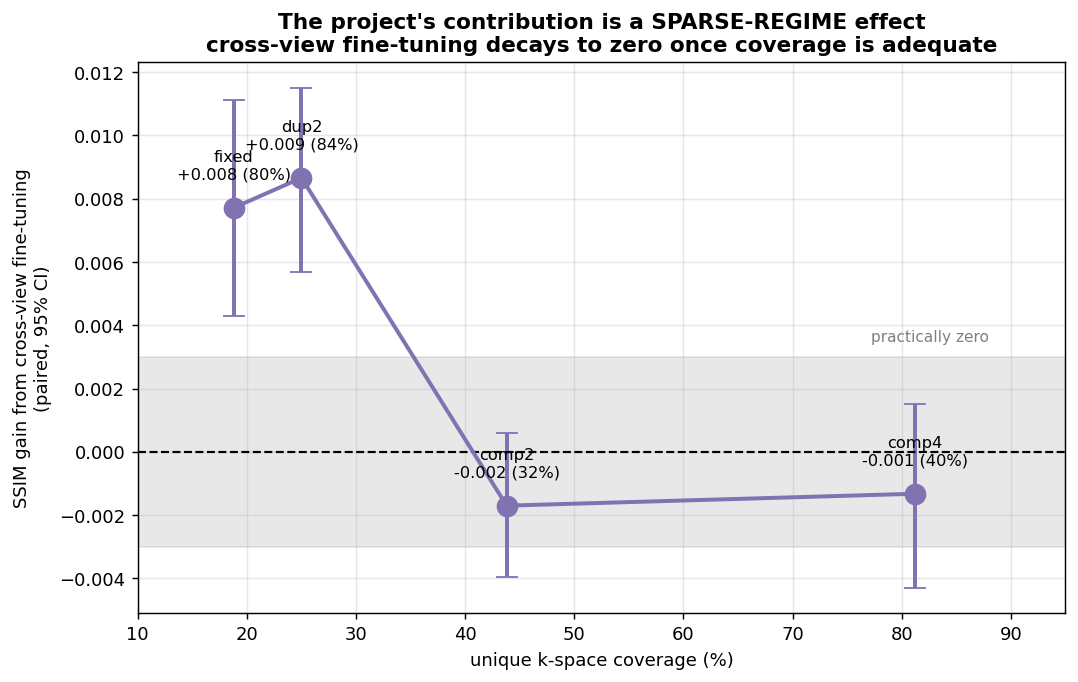
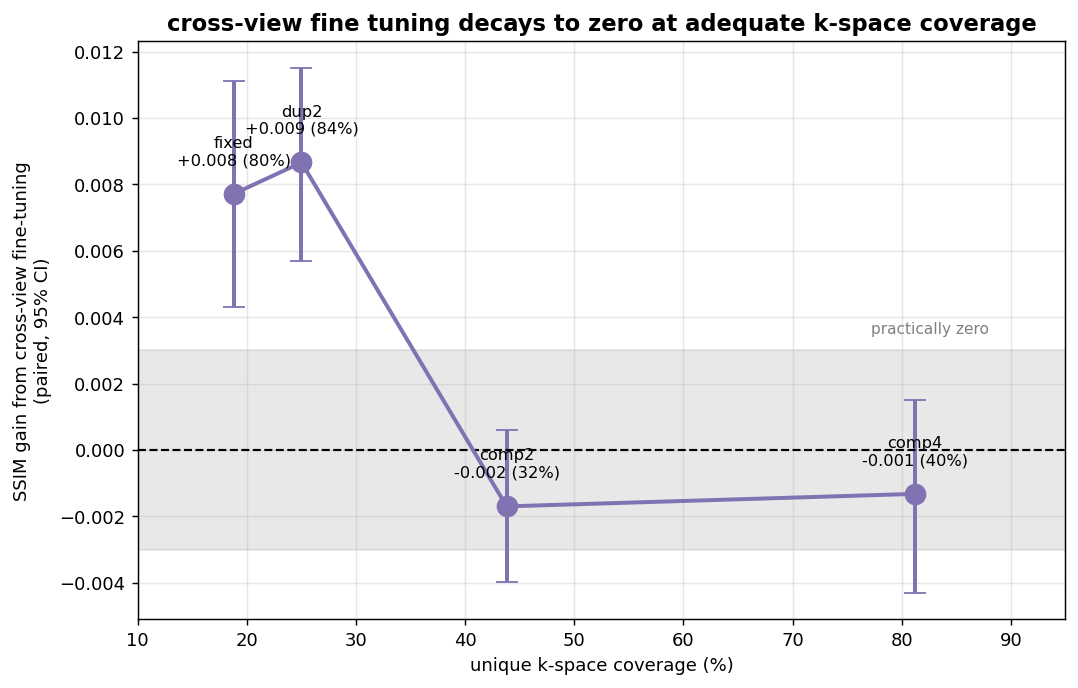
Figure edits: retitle forest + finetuning, drop experiment_overview, fix montage title collision
1. finetuning_vs_coverage.png -- title replaced with
   "cross-view fine tuning decays to zero at adequate k-space coverage".
2. effect_sizes_forest.png -- title replaced with
   "Acquisition vs Reconstruction contributions to SSIM".
3. experiment_overview.png removed, along with fig_overview() in
   analysis/plot_experiment_overview.py and its now-unused MARKERS constant and
   patheffects import. References dropped from build_mvp_report and README.
4. recon_montage_{2view,4view}.png -- block headings ("Table 1 ...") now render in
   their OWN gridspec row via a new block_title() helper, so they can no longer
   collide with the per-column image titles underneath.

diff --git a/analysis/plot_experiment_overview.py b/analysis/plot_experiment_overview.py
@@ -6,7 +6,6 @@ per-method montages.  Everything is computed from the per-subject metric tables
 so the plots and the report cannot disagree.
 
 Outputs (figures/mvp/):
-  experiment_overview.png     SSIM vs unique k-space coverage, all 20 methods
   effect_sizes_forest.png     paired effects, acquisition design vs recon method
   budget_ladder.png           SSIM vs lines bought, duplicated vs complementary
   finetuning_vs_coverage.png  cross-view fine-tuning benefit decaying with coverage
@@ -21,12 +20,10 @@ import pandas as pd
 import matplotlib
 matplotlib.use("Agg")
 import matplotlib.pyplot as plt
-import matplotlib.patheffects as pe
 
 sys.path.insert(0, os.path.dirname(os.path.dirname(os.path.abspath(__file__))))
 from analysis.experiments import EXPERIMENTS, DESIGN_COLORS, design_of, methods_for
 
-MARKERS = {"single": "o", "merge": "s", "ft": "^", "plain": "D"}
 DESIGN_LABEL = {
     "fixed": "fixed budget (split one scan)",
     "1x": "one cheap scan",
@@ -55,78 +52,6 @@ def subj_mean(df, m, col="ssim"):
     v = df[df.method == m][col]
     return float(v.mean()) if len(v) else None
 
-
-# ---------------------------------------------------------------------------
-# 1. SSIM vs coverage -- the headline figure
-# ---------------------------------------------------------------------------
-def fig_overview(main, quad, out):
-    fig, axes = plt.subplots(1, 2, figsize=(15, 6.2), sharey=False)
-    for ax, (df, set_, title, n, jit) in zip(axes, [
-            (main, "main", "2-view set", main.subject_id.nunique(), 0.85),
-            (quad, "quad", "4-view set", quad.subject_id.nunique(), 2.2)]):
-        # Methods sharing a coverage differ by <0.006 SSIM, so points (and their
-        # labels) would overlap. Spread each coverage cluster horizontally.
-        present = [m for m in methods_for(set_) if not df[df.method == m].empty]
-        clusters = {}
-        for m in present:
-            clusters.setdefault(EXPERIMENTS[m].cov, []).append(m)
-        for cov, ms in clusters.items():
-            ms.sort(key=lambda m: subj_mean(df, m))
-            for i, m in enumerate(ms):
-                e = EXPERIMENTS[m]
-                x = cov * 100 + (i - (len(ms) - 1) / 2) * jit
-                y = subj_mean(df, m)
-                c = DESIGN_COLORS[design_of(m)]
-                ax.scatter(x, y, s=190, color=c, marker=MARKERS[e.combiner],
-                           edgecolor="black" if e.prior == "finetuned" else "white",
-                           linewidth=2.0 if e.prior == "finetuned" else 1.0, zorder=3)
-                # stagger labels above/below: cluster members differ by <0.006 SSIM
-                # so a single offset would overlap regardless of jitter. Colour the
-                # text to match its marker so close pairs stay unambiguous.
-                dy = 13 if i % 2 == 0 else -23
-                ax.annotate(m, (x, y), textcoords="offset points", xytext=(0, dy),
-                            ha="center", fontsize=8.5, fontweight="bold", color=c,
-                            zorder=4, path_effects=[pe.withStroke(linewidth=2.2,
-                                                                  foreground="white")])
-        ax.set_xlabel("unique k-space coverage (% of PE columns)")
-        ax.set_ylabel("brain-masked SSIM (subject mean)")
-        ax.set_title(f"{title}  ({n} subjects)")
-        ax.grid(alpha=0.3)
-
-    # annotate the two big design jumps
-    a = axes[0]
-    y6, y13 = subj_mean(main, "dup2_ft"), subj_mean(main, "comp2_ft")
-    if y6 and y13:
-        a.annotate("", xy=(43.8, y13), xytext=(25, y6),
-                   arrowprops=dict(arrowstyle="->", lw=2.4, color="#2a7f3f"))
-        a.text(34, (y6 + y13) / 2 + 0.008, f"same 128 lines\n+{y13-y6:.3f} SSIM",
-               color="#2a7f3f", fontsize=10, fontweight="bold", ha="center")
-    b = axes[1]
-    y9, y16, yMF = subj_mean(quad, "dup4_ft"), subj_mean(quad, "comp4_ft"), subj_mean(quad, "full_plain")
-    if y9 and y16:
-        b.annotate("", xy=(81.2, y16), xytext=(25, y9),
-                   arrowprops=dict(arrowstyle="->", lw=2.4, color="#2a7f3f"))
-        b.text(53, (y9 + y16) / 2 + 0.008, f"same 256 lines\n+{y16-y9:.3f} SSIM",
-               color="#2a7f3f", fontsize=10, fontweight="bold", ha="center")
-    if yMF:
-        b.axhline(yMF, ls="--", color="#c44e52", lw=1.5, alpha=0.8)
-        b.text(24, yMF - 0.007, "ceiling: one full scan, plain recon (full_plain)",
-               color="#c44e52", fontsize=9, va="top")
-
-    handles = [plt.Line2D([], [], marker="o", ls="", color=DESIGN_COLORS[k], ms=11,
-                          label=DESIGN_LABEL[k]) for k in ["1x", "fixed", "dup", "comp", "fcomp", "full", "dualfull"]]
-    handles += [plt.Line2D([], [], marker=MARKERS[k], ls="", color="gray", ms=11,
-                           label=f"{k}") for k in ["single", "merge", "ft", "plain"]]
-    handles += [plt.Line2D([], [], marker="o", ls="", mfc="white", mec="black", mew=2, ms=11,
-                           label="cross-view fine-tuned")]
-    fig.legend(handles=handles, loc="lower center", ncol=5, frameon=False, fontsize=9)
-    fig.suptitle("Coverage, not method, drives reconstruction quality\n"
-                 "colour = acquisition design | marker = combiner | black ring = fine-tuned prior",
-                 fontsize=13, fontweight="bold")
-    fig.tight_layout(rect=[0, 0.10, 1, 0.93])
-    fig.savefig(out, dpi=130, bbox_inches="tight")
-    plt.close(fig)
-    print(f"Wrote {out}")
 
 
 # ---------------------------------------------------------------------------
@@ -168,9 +93,8 @@ def fig_forest(main, quad, out):
             color="#2a7f3f", fontweight="bold", fontsize=10.5)
     ax.text(0.985, 0.40, "RECONSTRUCTION METHOD", transform=ax.transAxes, ha="right",
             color="#8172b2", fontweight="bold", fontsize=10.5)
-    ax.set_title("What actually moves the needle\n"
-                 "design effects are 5-10x larger than every method effect",
-                 fontsize=12.5, fontweight="bold")
+    ax.set_title("Acquisition vs Reconstruction contributions to SSIM",
+                 fontsize=13, fontweight="bold")
     ax.grid(axis="x", alpha=0.3)
     fig.tight_layout()
     fig.savefig(out, dpi=130, bbox_inches="tight")
@@ -263,9 +187,8 @@ def fig_ft(main, quad, out):
     ax.set_xlim(10, 95)
     ax.set_xlabel("unique k-space coverage (%)")
     ax.set_ylabel("SSIM gain from cross-view fine-tuning\n(paired, 95% CI)")
-    ax.set_title("The project's contribution is a SPARSE-REGIME effect\n"
-                 "cross-view fine-tuning decays to zero once coverage is adequate",
-                 fontsize=12, fontweight="bold")
+    ax.set_title("cross-view fine tuning decays to zero at adequate k-space coverage",
+                 fontsize=12.5, fontweight="bold")
     ax.grid(alpha=0.3)
     fig.tight_layout()
     fig.savefig(out, dpi=130, bbox_inches="tight")
@@ -283,7 +206,6 @@ def main():
     m = pd.read_csv(args.per_subject)
     q = pd.read_csv(args.per_subject_quad)
     o = args.output_dir
-    fig_overview(m, q, os.path.join(o, "experiment_overview.png"))
     fig_forest(m, q, os.path.join(o, "effect_sizes_forest.png"))
     fig_budget(m, q, os.path.join(o, "budget_ladder.png"))
     fig_ft(m, q, os.path.join(o, "finetuning_vs_coverage.png"))

diff --git a/analysis/plot_recon_montage_tables.py b/analysis/plot_recon_montage_tables.py
@@ -63,13 +63,17 @@ def pick_cases(res, methods, n=3):
     return [(k, good[k]) for k in chosen]
 
 
-def draw_block(fig, cell, res, methods, cases, zf_cond, title):
+def block_title(fig, cell, text):
+    """Render a block heading in its OWN gridspec row, so it can never collide
+    with the per-column titles of the montage below it."""
+    ax = fig.add_subplot(cell)
+    ax.axis("off")
+    ax.text(0.0, 0.15, text, transform=ax.transAxes, fontsize=11.5,
+            fontweight="bold", ha="left", va="bottom")
+
+
+def draw_block(fig, cell, res, methods, cases, zf_cond):
     ncol = 2 + len(methods)                  # reference + zero-filled + methods
-    # heading axis first (transparent, behind the images), carries the block title
-    # placed well above the two-line column titles of the first row.
-    ax0 = fig.add_subplot(cell); ax0.axis("off"); ax0.patch.set_alpha(0.0)
-    ax0.text(0.0, 1.055, title, transform=ax0.transAxes, fontsize=11.5,
-             fontweight="bold", ha="left", va="bottom")
     inner = gridspec.GridSpecFromSubplotSpec(len(cases), ncol, subplot_spec=cell,
                                              wspace=0.04, hspace=0.06)
     for r, ((subj, sl), mdict) in enumerate(cases):
@@ -113,12 +117,13 @@ def main():
     # ---- 2-view: two tables stacked into one grouped figure ----
     cases2 = pick_cases(res2, list(set(T_FIXED + T_2X)), n=args.cases)
     ncol2 = max(2 + len(T_FIXED), 2 + len(T_2X))
-    fig = plt.figure(figsize=(1.55 * ncol2 + 1, 1.7 * args.cases * 2 + 1.4))
-    outer = gridspec.GridSpec(2, 1, height_ratios=[1, 1], hspace=0.34)
-    draw_block(fig, outer[0], res2, T_FIXED, cases2, "single_r4",
-               "Table 1 — classical baselines & fixed budget (64 lines)")
-    draw_block(fig, outer[1], res2, T_2X, cases2, "single_r4",
-               "Table 2 — 2x budget (128 lines): duplicated / complementary / fully-comp")
+    fig = plt.figure(figsize=(1.55 * ncol2 + 1, 1.7 * args.cases * 2 + 2.2))
+    # dedicated thin rows for the block headings -> no overlap with column titles
+    outer = gridspec.GridSpec(4, 1, height_ratios=[0.13, 1, 0.13, 1], hspace=0.30)
+    block_title(fig, outer[0], "Table 1 — classical baselines & fixed budget (64 lines)")
+    draw_block(fig, outer[1], res2, T_FIXED, cases2, "single_r4")
+    block_title(fig, outer[2], "Table 2 — 2x budget (128 lines): duplicated / complementary / fully-comp")
+    draw_block(fig, outer[3], res2, T_2X, cases2, "single_r4")
     fig.suptitle("2-view set — reconstructions per results table  (columns coloured by design; "
                  "same intensity window per row)", fontsize=12, fontweight="bold")
     fig.subplots_adjust(top=0.92, bottom=0.01, left=0.05, right=0.99)
@@ -128,10 +133,10 @@ def main():
 
     # ---- 4-view: single table ----
     casesq = pick_cases(resq, T_QUAD, n=args.cases)
-    figq = plt.figure(figsize=(1.5 * (2 + len(T_QUAD)) + 1, 1.9 * args.cases + 1.2))
-    gsq = gridspec.GridSpec(1, 1)
-    draw_block(figq, gsq[0], resq, T_QUAD, casesq, "joint_quad_comp",
-               "4-view table — single_r4 -> full scan -> NEX=2")
+    figq = plt.figure(figsize=(1.5 * (2 + len(T_QUAD)) + 1, 1.9 * args.cases + 1.8))
+    gsq = gridspec.GridSpec(2, 1, height_ratios=[0.11, 1], hspace=0.30)
+    block_title(figq, gsq[0], "4-view table — single_r4 -> full scan -> NEX=2")
+    draw_block(figq, gsq[1], resq, T_QUAD, casesq, "joint_quad_comp")
     figq.suptitle("4-view set — reconstructions per results table  (columns coloured by design; "
                   "same intensity window per row)", fontsize=12, fontweight="bold")
     figq.subplots_adjust(top=0.88, bottom=0.02, left=0.05, right=0.99)

diff --git a/analysis/build_mvp_report.py b/analysis/build_mvp_report.py
@@ -362,8 +362,6 @@ def main():
                                   "(the budget question, incl. dualfull NEX=2)"),
         ]),
         ("Cross-experiment (the conclusions)", [
-            ("experiment_overview.png", "SSIM vs unique k-space coverage, all methods, both sets "
-                                        "-- the headline: coverage separates, method does not"),
             ("effect_sizes_forest.png", "every paired comparison with 95% CI, split into acquisition "
                                         "design vs reconstruction method"),
             ("budget_ladder.png", "every experiment as a bar, grouped by what it cost (64/128/256 lines)"),

diff --git a/README.md b/README.md
@@ -26,7 +26,7 @@ write-up and [`reports/mvp_notes.md`](reports/mvp_notes.md) for the decision log
 | Results tables, standalone (Markdown + CSV) | `tables/mvp/results_tables.md`, `tables/mvp/results_*.csv` |
 | **Reconstruction montages** — the reconstructed images per results table | `figures/mvp/recon_montage_2view.png`, `figures/mvp/recon_montage_4view.png` |
 | Results tables visualised (bars ± 95% CI) | `figures/mvp/results_2view.png`, `figures/mvp/results_4view.png` |
-| Cross-experiment conclusions | `figures/mvp/experiment_overview.png`, `effect_sizes_forest.png`, `budget_ladder.png`, `finetuning_vs_coverage.png` |
+| Cross-experiment conclusions | `figures/mvp/effect_sizes_forest.png`, `budget_ladder.png`, `finetuning_vs_coverage.png` |
 | Mask designs / l_ss tuning | `figures/mvp/mask_design_all.png`, `lss_tier_tuning.png` |
 
 If you only want to regenerate the tables and figures from the reconstructions that

diff --git a/reports/mvp_summary.md b/reports/mvp_summary.md
@@ -160,7 +160,6 @@ Two *complete* k-space acquisitions of the same slice (512 lines), the realistic
 
 **Cross-experiment (the conclusions)**
 
-- `figures/mvp/experiment_overview.png` -- SSIM vs unique k-space coverage, all methods, both sets -- the headline: coverage separates, method does not
 - `figures/mvp/effect_sizes_forest.png` -- every paired comparison with 95% CI, split into acquisition design vs reconstruction method
 - `figures/mvp/budget_ladder.png` -- every experiment as a bar, grouped by what it cost (64/128/256 lines)
 - `figures/mvp/finetuning_vs_coverage.png` -- the cross-view fine-tuning benefit decaying to zero as coverage grows
